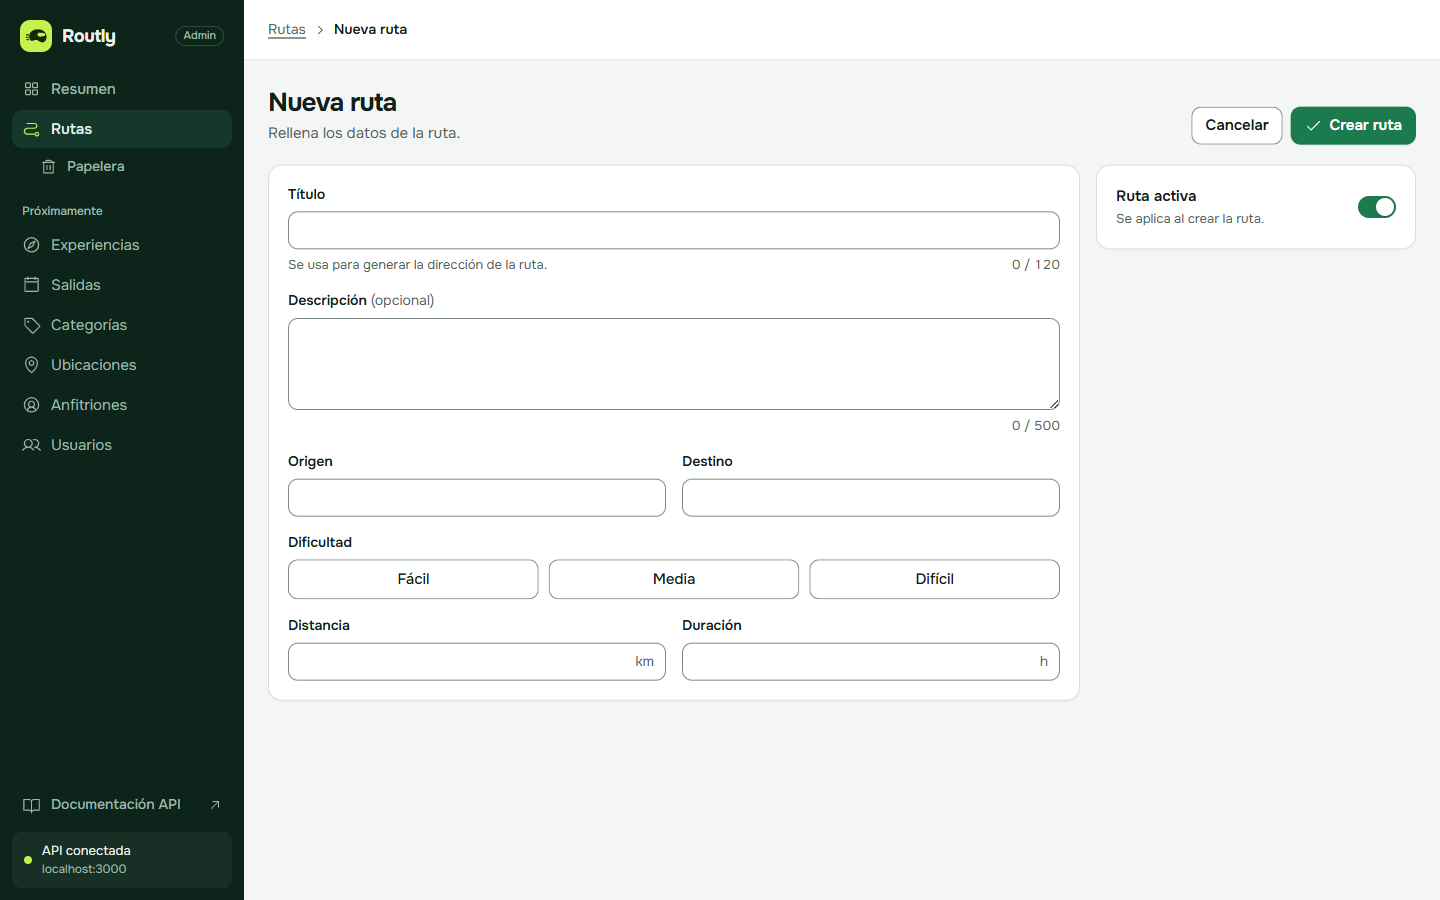
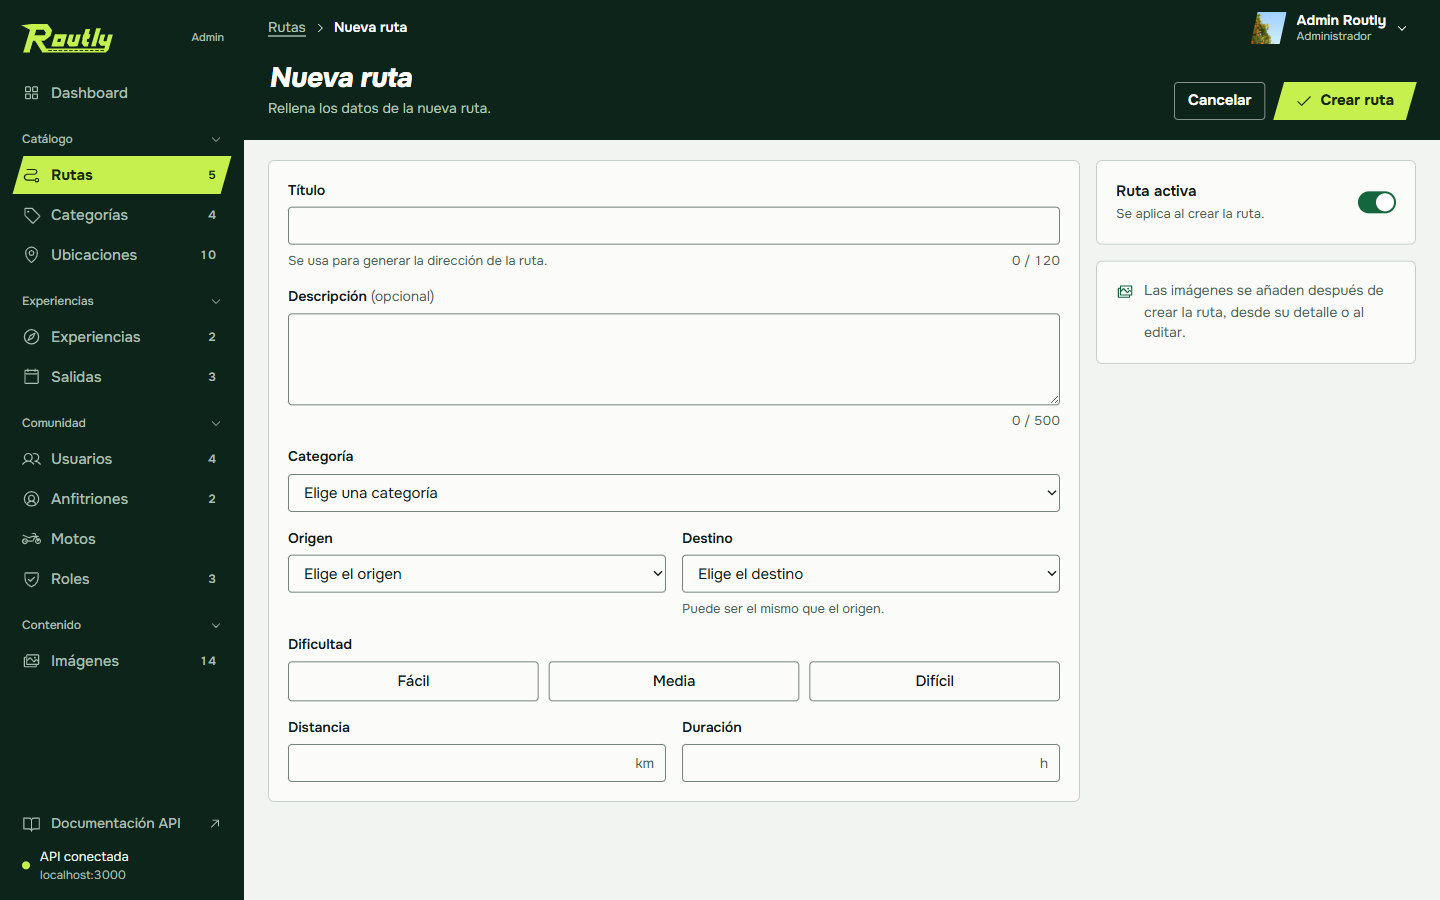
fase 8: prueba de estrés, accesibilidad y documentación final
- prueba con datos en el peor caso (textos largos, emails sin espacios,
  relaciones eliminadas, cien filas) en escritorio y móvil, claro y oscuro
- "Eliminada" ya no se parte en columnas estrechas
- un id mal formado en la URL cuenta como no encontrado
- al editar tu propia cuenta no se envía roleId
- specs: bloqueo de la propia cuenta y regresión del bucle de peticiones
  de la experiencia
- README: sistema de diseño actualizado (tema oscuro, ángulo), 441 tests
- capturas nuevas en docs/screenshots, con el inicio de sesión

diff --git a/moto-routes-frontend/src/app/features/experiences/pages/experience-form/experience-form-page.component.spec.ts b/moto-routes-frontend/src/app/features/experiences/pages/experience-form/experience-form-page.component.spec.ts
@@ -1,0 +1,74 @@
+import { provideHttpClient } from '@angular/common/http';
+import { HttpTestingController, provideHttpClientTesting } from '@angular/common/http/testing';
+import { provideZonelessChangeDetection } from '@angular/core';
+import { TestBed } from '@angular/core/testing';
+import { provideRouter } from '@angular/router';
+
+import { Experience } from '../../../../core/models/experience.model';
+import { environment } from '../../../../../environments/environment';
+import { ExperienceFormPageComponent } from './experience-form-page.component';
+
+const API = environment.apiUrl;
+
+const EXPERIENCE: Experience = {
+  _id: 'e1',
+  slug: 'pirineo',
+  title: 'Pirineo',
+  hostId: 'h1',
+  host: { _id: 'h1', name: 'Pirineos Adventure', slug: 'pirineos' },
+  routeId: 'r1',
+  route: { _id: 'r1', title: 'Puertos', slug: 'puertos' },
+  language: 'es',
+  duration: 8,
+  minParticipants: 2,
+  maxParticipants: 8,
+  status: 'active',
+  isActive: true,
+  deletedAt: null,
+  createdAt: '2026-01-01T00:00:00.000Z',
+  updatedAt: '2026-01-01T00:00:00.000Z',
+} as Experience;
+
+/** Deja que se resuelvan las promesas y los efectos pendientes. */
+const settle = async (): Promise<void> => {
+  for (let i = 0; i < 5; i++) await new Promise((resolve) => setTimeout(resolve));
+};
+
+describe('ExperienceFormPageComponent', () => {
+  it('pide las motos del anfitrión una sola vez, sin entrar en bucle', async () => {
+    TestBed.configureTestingModule({
+      providers: [
+        provideZonelessChangeDetection(),
+        provideRouter([]),
+        provideHttpClient(),
+        provideHttpClientTesting(),
+      ],
+    });
+    const http = TestBed.inject(HttpTestingController);
+    const fixture = TestBed.createComponent(ExperienceFormPageComponent);
+    fixture.componentRef.setInput('slug', 'pirineo');
+
+    let hostRequests = 0;
+    // Responde a todo lo que llegue mientras haya peticiones: un bucle no se acabaría nunca.
+    for (let round = 0; round < 10; round++) {
+      await fixture.whenStable();
+      await settle();
+      const pending = http.match(() => true);
+      if (!pending.length) break;
+      for (const request of pending) {
+        const url = request.request.url;
+        if (url === `${API}/hosts/h1`) {
+          hostRequests++;
+          request.flush({ ...EXPERIENCE.host, bikes: [] });
+        } else if (url.includes('/experiences/')) {
+          request.flush(EXPERIENCE);
+        } else {
+          request.flush([]);
+        }
+      }
+    }
+
+    expect(hostRequests).toBe(1);
+    http.verify();
+  });
+});

diff --git a/moto-routes-frontend/src/app/features/users/services/users.store.spec.ts b/moto-routes-frontend/src/app/features/users/services/users.store.spec.ts
@@ -1,0 +1,45 @@
+import { provideHttpClient } from '@angular/common/http';
+import { provideHttpClientTesting } from '@angular/common/http/testing';
+import { provideZonelessChangeDetection } from '@angular/core';
+import { TestBed } from '@angular/core/testing';
+import { provideRouter } from '@angular/router';
+
+import { AuthStore } from '../../../auth/auth.store';
+import { fakeUser } from '../../../auth/auth.testing';
+import { User } from '../../../core/models/user.model';
+import { UsersStore } from './users.store';
+
+const OTHER: User = { ...fakeUser('rider'), _id: '2', name: 'Luis', slug: 'luis' };
+
+describe('UsersStore: tu propia cuenta', () => {
+  let store: UsersStore;
+
+  beforeEach(() => {
+    TestBed.configureTestingModule({
+      providers: [
+        provideZonelessChangeDetection(),
+        provideRouter([]),
+        provideHttpClient(),
+        provideHttpClientTesting(),
+      ],
+    });
+    spyOn(localStorage, 'removeItem').and.stub();
+    TestBed.inject(AuthStore).setUser(fakeUser());
+    store = TestBed.inject(UsersStore);
+  });
+
+  it('reconoce la cuenta de la sesión', () => {
+    expect(store.isSelf(fakeUser())).toBeTrue();
+    expect(store.isSelf(OTHER)).toBeFalse();
+  });
+
+  it('no deja desactivar ni eliminar tu propia cuenta, y explica por qué', () => {
+    expect(store.toggleLockedReason(fakeUser())).toBe('No puedes desactivar tu propia cuenta.');
+    expect(store.deleteLockedReason(fakeUser())).toBe('No puedes eliminar tu propia cuenta.');
+  });
+
+  it('las cuentas de los demás no tienen bloqueo', () => {
+    expect(store.toggleLockedReason(OTHER)).toBeNull();
+    expect(store.deleteLockedReason(OTHER)).toBeNull();
+  });
+});

diff --git a/moto-routes-frontend/src/app/features/users/components/user-form/user-form.component.spec.ts b/moto-routes-frontend/src/app/features/users/components/user-form/user-form.component.spec.ts
@@ -1,3 +1,6 @@
+import { TestBed } from '@angular/core/testing';
+import { provideRouter } from '@angular/router';
+
 import { ApiError } from '../../../../core/models/api-error.model';
 import { Role } from '../../../../core/models/role.model';
 import { User } from '../../../../core/models/user.model';
@@ -116,5 +119,22 @@ describe('UserFormComponent', () => {
     form.fixture.componentInstance.showServerError(conflict('User has a host profile'));
     await form.fixture.whenStable();
     expect(form.field('roleId')!.getAttribute('aria-invalid')).toBe('true');
+  });
+
+  it('en tu propia cuenta no se cambia el rol ni la contraseña', async () => {
+    // Enlaza a Mi perfil para cambiar la contraseña.
+    TestBed.configureTestingModule({ providers: [provideRouter([])] });
+    const form = await renderForm(UserFormComponent, { record: ANA, roles: ROLES, self: true });
+
+    expect(form.field('roleId')!.hasAttribute('disabled')).toBeTrue();
+    expect(form.field('changePassword')).toBeNull();
+    expect(form.field('password')).toBeNull();
+    expect(form.element.textContent).toContain('No puedes cambiar tu propio rol.');
+
+    form.type('name', 'Ana María');
+    await form.submit();
+    expect(form.saved).toEqual([
+      { mode: 'update', payload: { name: 'Ana María', email: 'ana@routly.dev' } },
+    ]);
   });
 });

diff --git a/moto-routes-frontend/src/app/core/utils/api-error.mapper.ts b/moto-routes-frontend/src/app/core/utils/api-error.mapper.ts
@@ -84,6 +84,10 @@ export function toApiError(error: unknown): ApiError {
 
   if (status === 400 || status === 422) {
     const fieldErrors = readFieldErrors(error.error);
+    // Un id mal formado en la URL (/images/abc): ese registro no existe.
+    if (fieldErrors && Object.keys(fieldErrors).join() === 'id') {
+      return new ApiError({ status: 404, type: 'client', message: MESSAGES.notFound, detail });
+    }
     // Un PATCH sin ningún campo (la API lo rechaza con 400 y sin `details`).
     const noChanges = detail === 'No fields to update';
     return new ApiError({

diff --git a/moto-routes-frontend/src/app/core/utils/api-error.mapper.spec.ts b/moto-routes-frontend/src/app/core/utils/api-error.mapper.spec.ts
@@ -30,6 +30,16 @@ describe('toApiError', () => {
     expect(error.detail).toBe('Internal server error');
   });
 
+  it('un id mal formado en la URL cuenta como no encontrado', () => {
+    const error = toApiError(
+      httpError(400, {
+        message: 'Validation failed',
+        details: [{ field: 'id', message: 'id has an invalid format' }],
+      }),
+    );
+    expect(error.isNotFound).toBeTrue();
+  });
+
   it('lee los errores por campo de un 400 y los traduce', () => {
     const error = toApiError(
       httpError(400, {

diff --git a/moto-routes-frontend/src/app/features/users/components/user-form/user-form.component.ts b/moto-routes-frontend/src/app/features/users/components/user-form/user-form.component.ts
@@ -222,7 +222,8 @@ export class UserFormComponent extends EntityForm<User, UserPayload, UserControl
     return {
       name: name.trim(),
       email: email.trim(),
-      roleId,
+      // Tu propio rol no se toca: ni siquiera se envía.
+      ...(this.self() ? {} : { roleId }),
       ...(this.changePassword() ? { password } : {}),
       ...this.profileChanges(),
     };

diff --git a/moto-routes-frontend/src/app/shared/components/relation-link/relation-link.component.ts b/moto-routes-frontend/src/app/shared/components/relation-link/relation-link.component.ts
@@ -38,6 +38,9 @@ import { IconComponent } from '../icon/icon.component';
       gap: 5px;
       font-size: var(--text-sm);
       color: var(--color-text-muted);
+      /* Una palabra corta: no se parte aunque la columna se estreche. */
+      white-space: nowrap;
+      overflow-wrap: normal;
     }
 
     .gone ui-icon {

diff --git a/moto-routes-frontend/README.md b/moto-routes-frontend/README.md
@@ -430,19 +430,27 @@ Todo el aspecto sale de variables CSS en `src/styles/`:
 | `primitives.css` | Piezas comunes: botones, badges, tarjetas, paneles y selects |
 | `sweetalert.css` | SweetAlert2 adaptado a la paleta |
 
-**Paleta.** Verdes: principal para las acciones (`--color-primary: #1b7a4e`), verde muy oscuro para el sidebar (`#0c2419`) y un acento lima (`#c6f04d`) para lo destacado. Los neutros están teñidos de verde, y cada estado (éxito, aviso y peligro) tiene su color de texto y su fondo. Todas las parejas de texto y fondo que usa el panel cumplen contraste **WCAG AA**.
+La dirección visual ("D Mixta") y sus reglas están en [`DESIGN.md`](DESIGN.md); el propósito del producto, en [`PRODUCT.md`](PRODUCT.md).
 
-![primary](https://img.shields.io/badge/primary-%231b7a4e-1b7a4e?style=for-the-badge&labelColor=1b7a4e) ![sidebar](https://img.shields.io/badge/sidebar-%230c2419-0c2419?style=for-the-badge&labelColor=0c2419) ![accent](https://img.shields.io/badge/accent-%23c6f04d-c6f04d?style=for-the-badge&labelColor=c6f04d) ![bg](https://img.shields.io/badge/bg-%23f3f6f4-f3f6f4?style=for-the-badge&labelColor=f3f6f4) ![text](https://img.shields.io/badge/text-%2313201a-13201a?style=for-the-badge&labelColor=13201a)
+**Paleta.** Un acento lima (`#c6f04d`, siempre con tinta oscura encima) para la acción principal y lo destacado, un verde principal (`--color-primary: #14663f`) para enlaces y estados, y una banda verde muy oscura (`#0c2419`) en el sidebar y en la cabecera de cada página. Los neutros están teñidos de verde. Todas las parejas de texto y fondo cumplen contraste **WCAG AA** en los dos temas.
 
-**Tipografía.** Onest Variable, en una escala de seis tamaños (de `--text-xs` a `--text-2xl`). Las cifras usan números tabulares (clase `.num`) para que se alineen en columna.
+![accent](https://img.shields.io/badge/accent-%23c6f04d-c6f04d?style=for-the-badge&labelColor=c6f04d) ![primary](https://img.shields.io/badge/primary-%2314663f-14663f?style=for-the-badge&labelColor=14663f) ![band](https://img.shields.io/badge/band-%230c2419-0c2419?style=for-the-badge&labelColor=0c2419) ![canvas](https://img.shields.io/badge/canvas-%23f1f4f0-f1f4f0?style=for-the-badge&labelColor=f1f4f0) ![ink](https://img.shields.io/badge/ink-%230f1a15-0f1a15?style=for-the-badge&labelColor=0f1a15)
 
-**Espacios y formas.** Escala de 4 a 48 px (`--space-1` a `--space-7`) y tres radios: 6, 10 y 14 px.
+**Tema claro y oscuro.** Los tokens se redefinen bajo `data-theme="dark"`. Un script en `index.html` pone el tema antes de pintar (lo guardado en `routly.theme` o, si no hay nada, el del sistema) y `ThemeService` lo cambia desde el botón del menú. En oscuro el principal pasa a ser el lima.
 
-**Movimiento.** Tres duraciones (120, 200 y 300 ms) con una misma curva. Con `prefers-reduced-motion` se desactivan las animaciones.
+**Tipografía.** Onest Variable, en una escala de seis tamaños (de `--text-xs` a `--text-2xl`). Los títulos de banda van en cursiva inclinada (`--slant-text`). Las cifras usan números tabulares para que se alineen en columna.
+
+**El ángulo.** El logo marca un ángulo (`--slant: -16deg`) que se repite en el botón principal, las insignias, la marca del menú activo y los extremos de la cabecera de las tablas. Los kilómetros van primero en cada fila, como en un roadbook, y la dificultad se pinta como un medidor de marcas.
+
+**Espacios y formas.** Escala de 4 a 48 px (`--space-1` a `--space-7`) y radios pequeños (3, 4 y 6 px): las formas son rectas o inclinadas, no redondeadas.
+
+**Movimiento.** Tres duraciones (120, 200 y 300 ms) con una curva de salida fuerte, y otra para lo que se desplaza (la marca del menú). Con `prefers-reduced-motion` se quitan los desplazamientos.
 
 **Estado inactivo.** No depende solo del color: combina fondo gris, borde discontinuo, texto atenuado y una etiqueta con icono.
 
-**Responsive.** Por debajo de 900 px el sidebar pasa a ser un cajón que se abre desde la barra superior. La tabla se desplaza en horizontal si no cabe.
+**Responsive.** Por debajo de 900 px el sidebar pasa a ser un cajón que se abre desde la barra superior y las tablas se convierten en bloques. Mínimo: 375 px sin scroll horizontal.
+
+**Probado con el peor caso.** Nombres de 60 caracteres, emails sin espacios de 90, nombres de una letra, relaciones eliminadas, cifras extremas y cien filas, inyectados interceptando la API en el navegador (sin código de demo en la app): nada desborda, todo texto cortado se puede leer entero al pasar el ratón y no aparece ningún `undefined` ni `NaN`.
 
 ## Tests
 
@@ -450,7 +458,7 @@ Todo el aspecto sale de variables CSS en `src/styles/`:
 npx ng test --watch=false --browsers=ChromeHeadless
 ```
 
-263 tests. Cubren la lógica y los formularios:
+441 tests. Cubren la lógica y los formularios:
 
 | Spec | Qué prueba |
 |---|---|
@@ -461,6 +469,10 @@ npx ng test --watch=false --browsers=ChromeHeadless
 | `image-gallery.component.spec.ts` | Principal, orden, regla de la imagen inactiva y añadir por URL |
 | Componentes compartidos | Insignia de estado, lista de datos, acciones de fila, interruptor, plantillas de listado y papelera |
 | `navigation.spec.ts`, `utils.spec.ts` | Menú, formato, fechas, textos, paginación y validadores |
+| `auth/*.spec.ts`, `app.routes.spec.ts` | Sesión, interceptor (token caducado, respuestas no válidas), guards, `returnUrl` y qué ve cada rol en cada URL |
+| `users.store.spec.ts`, `user-form.component.spec.ts` | Tu propia cuenta no se desactiva, ni se elimina, ni cambia de rol |
+| `experience-form-page.component.spec.ts` | La página pide las motos del anfitrión una sola vez (sin bucle de peticiones) |
+| `bikes/**/*.spec.ts`, `profile.component.spec.ts` | El garaje: límites, moto principal, pública y el perfil propio |
 
 ## Limitaciones conocidas
 
@@ -469,6 +481,5 @@ npx ng test --watch=false --browsers=ChromeHeadless
 - Los contadores del menú y el Dashboard piden cada listado completo: la API no tiene un endpoint de totales.
 - El Dashboard no muestra tendencias, ocupación ni comparativas con meses anteriores: la API no guarda histórico ni reservas. Está propuesto en `NOTES.md`.
 - No hay borrado definitivo: la API no tiene borrado físico.
-- No hay modo oscuro: el panel solo tiene tema claro.
 
 <p align="right"><a href="#top">Volver arriba</a></p>

diff --git a/README.md b/README.md
@@ -84,12 +84,12 @@ Hoy Routly es el **panel de administración** del catálogo y la **API** que lo 
 
 <table>
   <tr>
-    <td width="50%"><img src="docs/screenshots/dashboard.png" alt="Dashboard con cifras, salidas por mes y reparto de rutas"></td>
-    <td width="50%"><img src="docs/screenshots/rutas-lista.png" alt="Listado de rutas en tabla"></td>
+    <td width="50%"><img src="docs/screenshots/dashboard.png" alt="Dashboard con la cuenta atrás de la próxima salida, la agenda y el catálogo"></td>
+    <td width="50%"><img src="docs/screenshots/rutas-lista.png" alt="Listado de rutas en tema oscuro"></td>
   </tr>
   <tr>
-    <td align="center"><sub><b>Dashboard</b>: rutas y salidas de un vistazo</sub></td>
-    <td align="center"><sub><b>Vista en tabla</b>: la ruta inactiva se distingue sin depender del color</sub></td>
+    <td align="center"><sub><b>Dashboard</b>: la próxima salida, la agenda y el catálogo de un vistazo</sub></td>
+    <td align="center"><sub><b>Rutas en oscuro</b>: km primero, como en un roadbook; la inactiva se distingue sin depender del color</sub></td>
   </tr>
   <tr>
     <td><img src="docs/screenshots/papelera.png" alt="Papelera con una ruta eliminada"></td>
@@ -98,6 +98,12 @@ Hoy Routly es el **panel de administración** del catálogo y la **API** que lo 
   <tr>
     <td align="center"><sub><b>Papelera</b>: restaurar con un clic</sub></td>
     <td align="center"><sub><b>Nueva ruta</b>: validación en el momento, con los mismos límites que la API</sub></td>
+  </tr>
+  <tr>
+    <td colspan="2"><img src="docs/screenshots/login.png" alt="Pantalla de inicio de sesión con la carretera dibujada"></td>
+  </tr>
+  <tr>
+    <td colspan="2" align="center"><sub><b>Inicio de sesión</b>: la carretera se dibuja al entrar</sub></td>
   </tr>
 </table>
 
